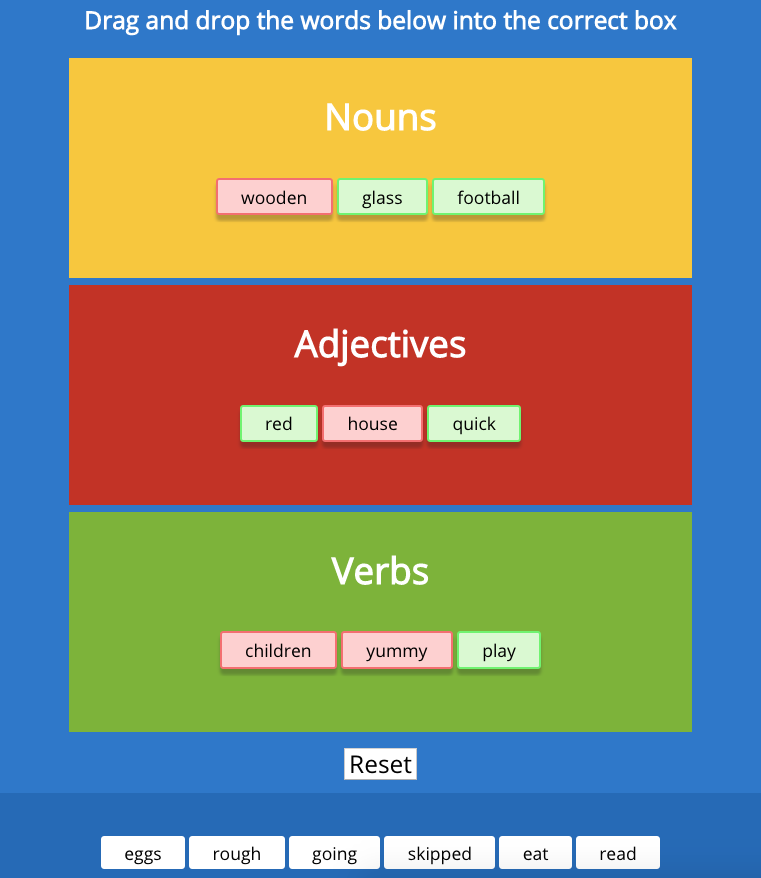
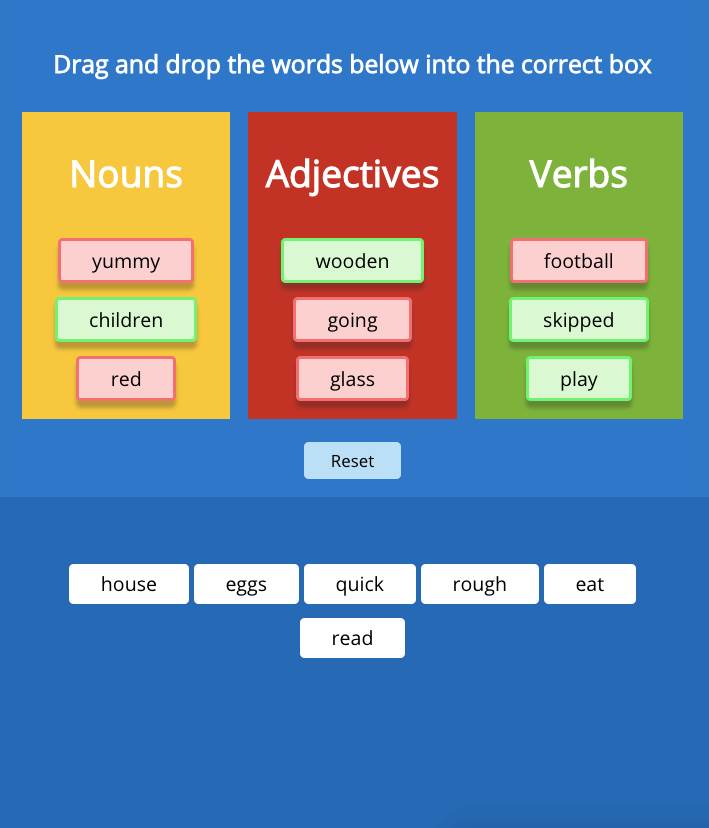
tweaked style of wordtypes game

diff --git a/src/components/LandingPage.js b/src/components/LandingPage.js
@@ -14,13 +14,13 @@ export function LandingPage(props) {
             </section>
             <section className="landing__wrapper">
                 <h2 className="landing__title">Learning Through Play</h2>
-                <h3 className="landing__subtitle">Reinforce your teaching through fun and interactive mini-games</h3>
+                <h3 className="landing__subtitle">English Rules reinforces lessons through fun and interactive mini-games that help solidify learning through gamification</h3>
                 <img className="landing__image" src={window.location.origin + "/landingpage1.png"} alt="Screenshot of Compound Sentences Game" />
                 <img className="landing__image" src={window.location.origin + "/landingpage2.png"} alt="Screenshot of Word Types Game" />
             </section>
             <section className="landing__wrapper">
                 <h2 className="landing__title">Customize Games and Build on the Basics</h2>
-                <h3 className="landing__subtitle">Adapt each game to fit your lesson plans and keep your students on their toes!</h3>
+                <h3 className="landing__subtitle">Each game can be adapted to fit what students are currently learning, ensuring unlimited variety and maintaining repeatability</h3>
             </section>
             <section className="landing__wrapper">
                 <h2 className="landing__title">Add New Games from the English Rules Library</h2>

diff --git a/src/components/WordTypes.css b/src/components/WordTypes.css
@@ -1,3 +1,15 @@
+.game__wrapper {
+    background-color: #3683CF;
+}
+
+.game__screen {
+    margin: 0 50px;
+}
+
+.wordContainer {
+    margin: 50px 50px 0 50px;
+}
+
 .reset-game {
     margin-top: 15px;
     font-size: calc(10px + 1vmin);

diff --git a/src/components/LandingPage.css b/src/components/LandingPage.css
@@ -59,8 +59,9 @@
 
 .landing__subtitle {
     font-family: 'Open Sans', sans-serif;
+    font-weight: 100;
     margin-bottom: 50px;
-    font-size: calc(10px + 2vmin);
+    font-size: calc(7px + 2vmin);
     padding: 0 15px;
 }
 
